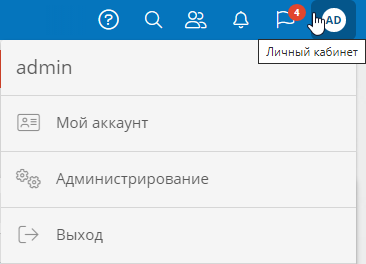
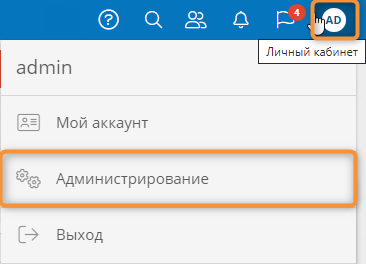
Updated Index article

Changed region(s): [[0.0, 0.5455, 0.9918, 0.8182], [0.8415, 0.0, 0.9918, 0.1818]]

diff --git a/docs/ru/administration/index.md b/docs/ru/administration/index.md
@@ -1,18 +1,24 @@
 # Администрирование
 
-В разделе «**Администрирование**» представлены подразделы, позволяющие настроить различные параметры системы: как глобальные, так и для отдельных приложений.
+## Использование страницы «Администрирование»
 
-Чтобы перейти к этому разделу, выберите пункт «**Администрирование**» в меню «**Личный кабинет**», расположенном справа в верхней информационной панели.
+На странице «**Администрирование**» представлены разделы, позволяющие настроить различные параметры системы: как глобальные, так и для отдельных приложений.
 
-*![Меню «Личный кабинет» с пунктом «Администрирование»](personal_menu.png)*
-Отобразится страница «**Администрирование**» с перечисленными ниже разделами.
+1. Выберите меню «**Личный кабинет**» справа в верхней информационной панели.
+2. В раскрывающемся меню выберите пункт «**Администрирование**».
 
-## Внешний вид
+    _![Переход к странице «Администрирование» из меню «Личный кабинет»](personal_menu.png)_
+
+3. На отобразившейся странице «**Администрирование**» выбирайте перечисленные ниже пункты, чтобы настроить систему.
+
+## Функции администрирования системы
+
+### Внешний вид
 
 * [Темы][темы]
 * [Дизайн страниц входа и регистрации][дизайн-страниц-входа-и-регистрации]
 
-## Архитектура
+### Архитектура
 
 * [Приложения][разработка-приложений]
 * [Разделы навигации][настройка-разделов-навигации]
@@ -21,7 +27,7 @@
 * [Функции][функции]
 * [Пути передачи данных][пути-передачи-данных]
 
-## Администрирование аккаунтов
+### Администрирование аккаунтов
 
 * [Аккаунты][аккаунты]
 * [Группы][группы]
@@ -42,3 +48,4 @@
 * [Конфигурация журналирования][конфигурация-журналирования]
 * [Глобальная конфигурация][глобальная-конфигурация]
 * [Адаптеры][адаптеры]
+* [Ключи аутентификации](https://kb.comindware.ru/article.php?id=2604)
